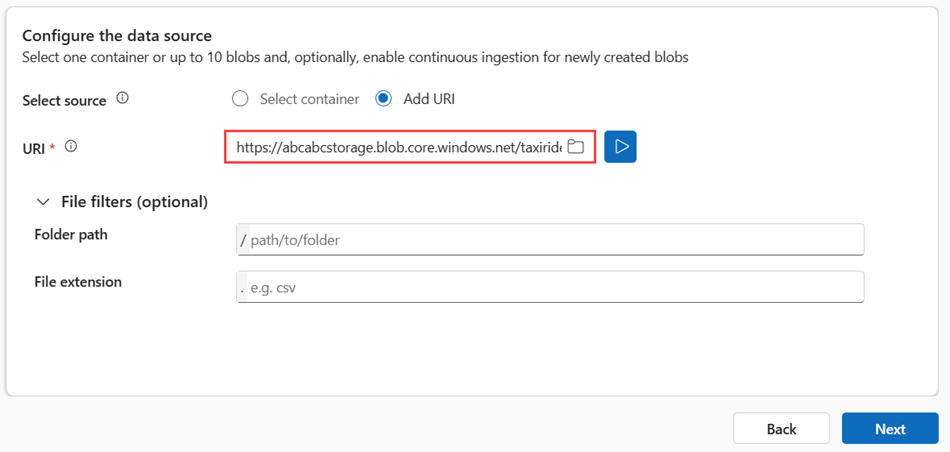
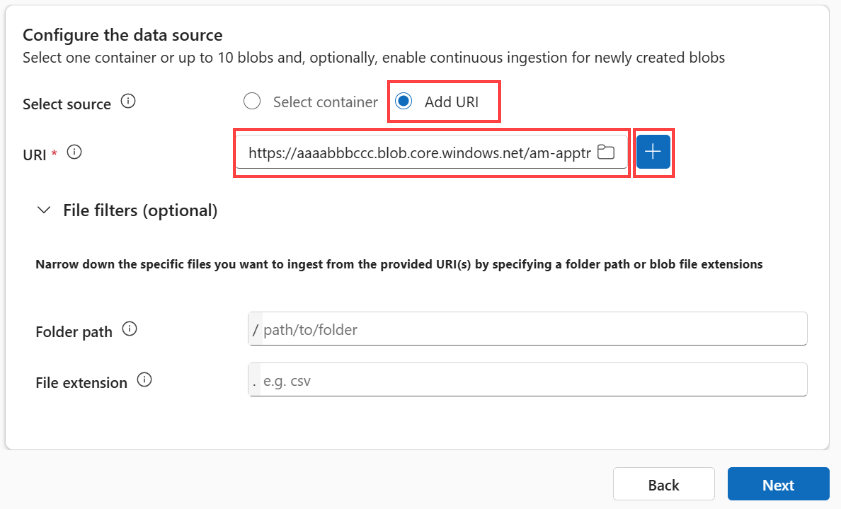
updates

diff --git a/data-explorer/get-data-storage.md b/data-explorer/get-data-storage.md
@@ -59,14 +59,12 @@ Select the data source from the available list. In this example, you're ingestin
         | Folder path| Filters data to ingest files with a specific folder path. |
         | File extension| Filters data to ingest files with a specific file extension only.|
 
-    1. If you selected **Add URI**, from the storage account, generate an SAS URL for the container or individual blobs you want to ingest. Set the permissions to **Read** and **List** for containers or **Read** for individual blobs. For more information see [Generate a SAS token](/kusto/api/connection-strings/generate-sas-token).
+    1. If you selected **Add URI**, from the storage account, generate an SAS URL for the container or individual blobs you want to ingest. Set the permissions to **Read** and **List** for containers or **Read** for individual blobs. For more information, see [Generate a SAS token](/kusto/api/connection-strings/generate-sas-token&view=azure-data-explorer&preserve-view=true).
 
-        1. Select **+ Add SAS URI**.
-
-        1. Paste the URL into the **URI** field, and then select **+**.
+    1. Paste the URL into the **URI** field, and then select plus (**+**). You can add multiple URIs for individual blobs, or a single URI for a container.
 
             :::image type="content" source="media/get-data-storage/add-uri.png" alt-text="Screenshot of configure tab with the connection string pasted in the URI field."  lightbox="media/get-data-storage/add-uri.png":::
-    1. Paste the URL into the **URI** field, and then select **+**.
+
 
         > [!NOTE]
         >

diff --git a/data-explorer/kusto/api/connection-strings/generate-sas-token.md b/data-explorer/kusto/api/connection-strings/generate-sas-token.md
@@ -21,7 +21,7 @@ This article shows you how to generate a SAS token to a resource.
 
    :::image type="content" source="storage/generate-sas-storage-account.png" alt-text="Screenshot of Azure portal with Containers selected. Specific container is right-clicked and a menu opens. Generate SAS is selected from this menu.":::
 
-1. In the **Generate SAS** dialog, specify the **Permissions**, **Start and expiry date/time**, and **Allowed IP addresses**. Then, select **Generate SAS token and URL**
+1. In the **Generate SAS** dialog, specify the **Permissions**, **Start and expiry date/time**, and **Allowed IP addresses**. Then, select **Generate SAS token and URL**.  To generate a SAS token for individual blobs, select **Read** permission.or containers, select **Read** and **List** permissions.
 
     :::image type="content" source="storage/generate-sas-token-and-url.png" alt-text="Screen shot of the Generate SAS dialog with information filled in and Generate SAS token and URL selected.":::
 
